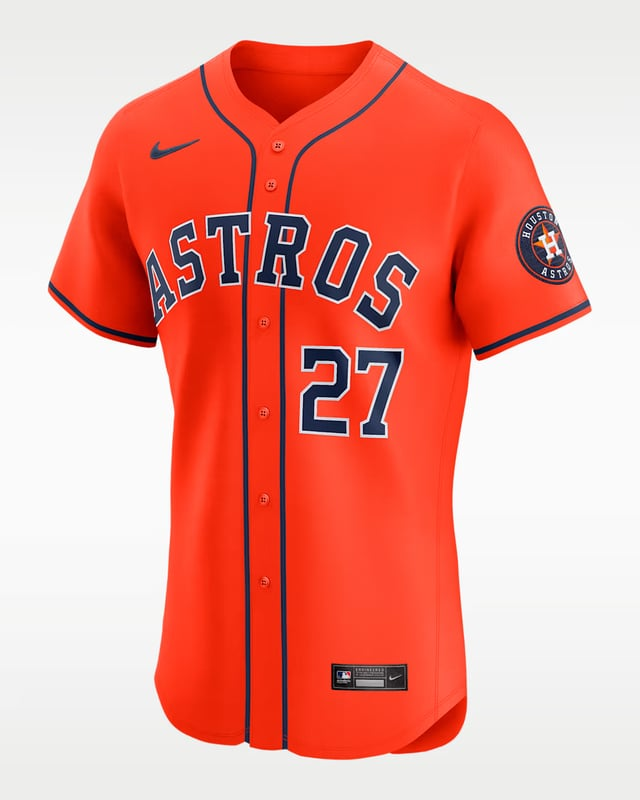
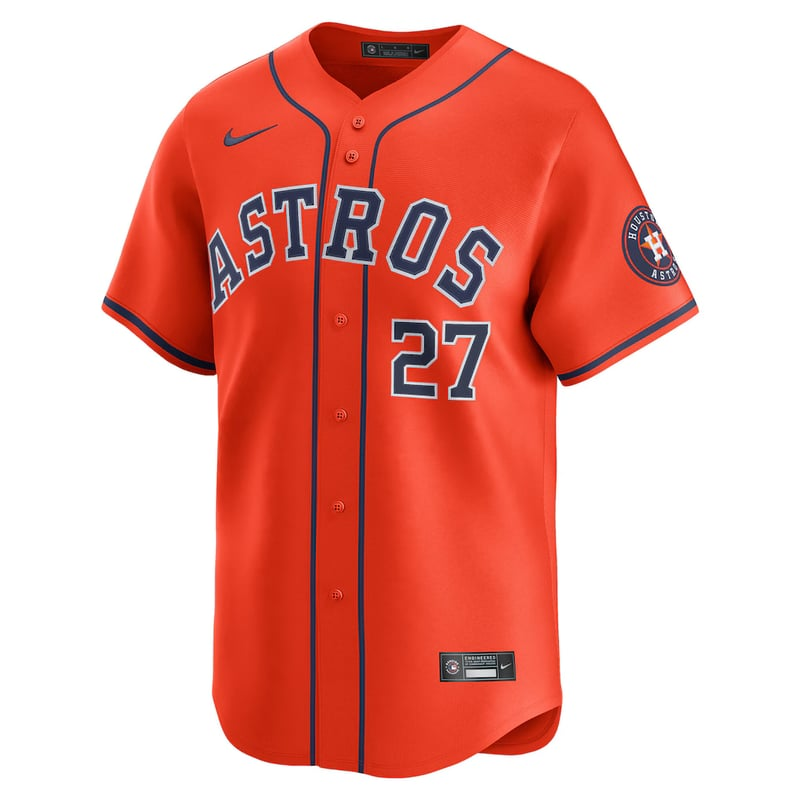
Guardians navy City Connect + refreshed Astros orange alternate
Jake supplied both. The Guardians DO have a City Connect (marbled navy
CLE, 'THE LAND'), so my Jul 31 read of 'Navy Alternate' was wrong -
corrected to Navy City Connect with the new tile. Guardians now show 5
uniforms on their calendar page, not 4. Astros orange alternate tile
replaced with a cleaner shot.

diff --git a/content/posts/mlb-uniform-tracker-2026.md b/content/posts/mlb-uniform-tracker-2026.md
@@ -116,10 +116,10 @@ New York's black alternate is the rare black jersey that earns it: the orange-an
     <p style="font-size: 11px; font-weight: 800; color: #ffffff; letter-spacing: 2.5px; opacity: 0.8; margin: 0 18px;">AT</p>
     <div style="text-align: center; display: flex; flex-direction: column; align-items: center;">
       <div style="width: 100%; height: 150px; background: #ececf0; border-radius: 10px; display: flex; align-items: center; justify-content: center; padding: 8px; box-sizing: border-box;">
-        <img src="/images/posts/mlb-daily-tracker/guardians-navy-alternate.jpg" alt="Guardians Navy Alternate jersey worn July 31 2026, from the MLB daily uniform tracker" style="max-height: 132px; max-width: 100%; object-fit: contain;" />
+        <img src="/images/posts/mlb-daily-tracker/guardians-navy-cc.jpg" alt="Guardians Navy City Connect jersey worn July 31 2026, from the MLB daily uniform tracker" style="max-height: 132px; max-width: 100%; object-fit: contain;" />
       </div>
       <p style="color: #ffffff; font-size: 13px; font-weight: 900; margin: 11px 0 0; line-height: 1.2;">GUARDIANS</p>
-      <p style="color: #ffffff; font-size: 9px; letter-spacing: 1.8px; text-transform: uppercase; opacity: 0.85; margin: 4px 0 0; font-weight: 600;"><span style="display: inline-block; width: 8px; height: 8px; border-radius: 50%; background: #00385D; border: 1px solid rgba(255,255,255,0.45); margin-right: 5px; vertical-align: middle;"></span>Navy Alternate</p>
+      <p style="color: #ffffff; font-size: 9px; letter-spacing: 1.8px; text-transform: uppercase; opacity: 0.85; margin: 4px 0 0; font-weight: 600;"><span style="display: inline-block; width: 8px; height: 8px; border-radius: 50%; background: #00385D; border: 1px solid rgba(255,255,255,0.45); margin-right: 5px; vertical-align: middle;"></span>Navy City Connect</p>
       <a href="https://fanatics.93n6tx.net/5kZn3j?u=https%3A%2F%2Fwww.fanatics.com%2Fsearch%3Fquery%3Dcleveland%20guardians%20jersey" target="_blank" rel="sponsored noopener" data-fanatics-jersey-cta style="margin-top: 10px; padding: 5px 12px; background: #2f6bed; border-radius: 999px; color: #ffffff; font-size: 9px; font-weight: 800; text-decoration: none; letter-spacing: 1.2px; text-transform: uppercase; display: inline-block;">Shop Jerseys</a>
     </div>
   </div>
